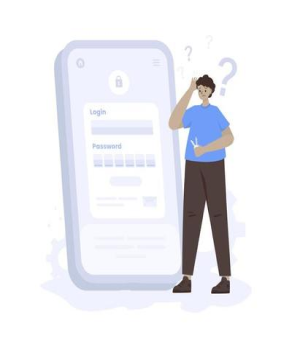
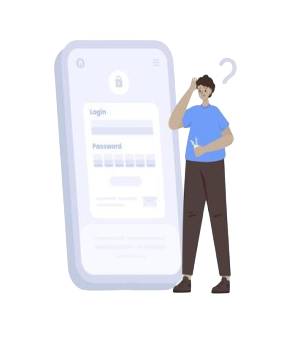
update form edit information, forgot passowd, login

diff --git a/backend/website/src/pages/EditInformation/components/FormEditInformation.jsx b/backend/website/src/pages/EditInformation/components/FormEditInformation.jsx
@@ -3,10 +3,12 @@ import { FontAwesomeIcon } from '@fortawesome/react-fontawesome';
 import { faCamera } from '@fortawesome/free-solid-svg-icons';
 
 const FormEditInformation = () => {
-    const [email, setEmail] = useState('current@example.com');
-    const [username, setUsername] = useState('current_username');
+    const [email, setEmail] = useState('');
+    const [username, setUsername] = useState('');
     const [phoneNumber, setPhoneNumber] = useState('');
     const [birthday, setBirthday] = useState('');
+    const [password, setPassowrd] = useState('');
+    const [repassword, setRepassword] = useState('');
     const [profileImage, setProfileImage] = useState('./src/assets/img/Forgotpassword/Figure → signin-image.jpg.png');
 
     const handleFileChange = (event) => {
@@ -31,13 +33,13 @@ const FormEditInformation = () => {
             <form onSubmit={handleSubmit} encType="multipart/form-data">
                 <div className="mb-6 flex justify-center">
                     <div className="relative">
-                        <img
+                        {/* <img
                             id="imagePreview"
                             src={profileImage}
                             alt="Current Profile"
                             className="w-32 h-32 rounded-full object-cover border-4 border-white shadow-lg"
-                        />
-                        <label
+                        /> */}
+                        {/* <label
                             htmlFor="profileImage"
                             className="absolute bottom-0 right-0 bg-blue-600 text-white p-2 rounded-full cursor-pointer"
                         >
@@ -50,12 +52,12 @@ const FormEditInformation = () => {
                                 className="hidden"
                                 onChange={handleFileChange}
                             />
-                        </label>
+                        </label> */}
                     </div>
                 </div>
 
                 <div className="mb-4">
-                    <label htmlFor="email" className="block text-sm font-medium text-gray-300 mb-2">Email</label>
+                    <label htmlFor="email" className="block text-sm font-nunito font-bold text-gray-300 mb-2">Email</label>
                     <input
                         type="email"
                         id="email"
@@ -104,23 +106,45 @@ const FormEditInformation = () => {
                         className="block w-full px-4 py-2 border border-gray-600 rounded-lg shadow-sm focus:outline-none focus:ring-indigo-500 focus:border-indigo-500 transition duration-300 bg-gray-700 text-white"
                     />
                 </div>
-                <div className="flex justify-end">
+                <div className="mb-4">
+                    <label htmlFor="phone" className="block text-sm font-medium text-gray-300 mb-2">Mật Khẩu</label>
+                    <input
+                        type="password"
+                        id="passowrd"
+                        name="password"
+                        value={password}
+                        onChange={(e) => setPassowrd(e.target.value)}
+                        className="block w-full px-4 py-2 border border-gray-600 rounded-lg shadow-sm focus:outline-none focus:ring-indigo-500 focus:border-indigo-500 transition duration-300 bg-gray-700 text-white"
+                        required
+                    />
+                </div>
+                <div className="mb-4">
+                    <label htmlFor="phone" className="block text-sm font-medium text-gray-300 mb-2">Nhập lại mật khẩu</label>
+                    <input
+                        type="password"
+                        id="repassword"
+                        name="repassword"
+                        value={repassword}
+                        onChange={(e) => setRepassword(e.target.value)}
+                        className="block w-full px-4 py-2 border border-gray-600 rounded-lg shadow-sm focus:outline-none focus:ring-indigo-500 focus:border-indigo-500 transition duration-300 bg-gray-700 text-white"
+                        required
+                    />
+                </div>
+                <div className="flex justify-end gap-4">
                     <button
                         type="submit"
-                        className="bg-indigo-600 text-white py-2 px-6 rounded-lg shadow-lg hover:bg-indigo-700 focus:outline-none focus:ring-2 focus:ring-indigo-500 focus:ring-offset-2 transition duration-300"
+                        className="bg-indigo-600 hover:bg-indigo-400 text-white py-2 px-6 rounded-lg shadow-lg focus:outline-none focus:ring-2 focus:ring-indigo-500 focus:ring-offset-2 transition duration-300"
                     >
                         Lưu thay đổi
                     </button>
-                </div>
-
-                <div className="flex justify-center mt-4">
                     <button
                         type="button"
-                        className="bg-red-600 text-white py-2 px-6 rounded-lg shadow-lg hover:bg-red-700 focus:outline-none focus:ring-2 focus:ring-red-500 focus:ring-offset-2 transition duration-300"
+                        className="bg-red-600 hover:bg-red-400 text-white py-2 px-6 rounded-lg shadow-lg focus:outline-none focus:ring-2 focus:ring-red-500 focus:ring-offset-2 transition duration-300"
                         onClick={() => alert('Đổi mật khẩu')}>
                         Đổi mật khẩu
                     </button>
                 </div>
+                
             </form>
         </div>
     );

diff --git a/backend/website/src/pages/Forgotpassword/components/FormForgotPassword.jsx b/backend/website/src/pages/Forgotpassword/components/FormForgotPassword.jsx
@@ -18,16 +18,16 @@ export const FormForgotPassword = () => {
             </div>
 
             {/* Phần nhập email */}
-            <div className="flex flex-col justify-center items-center w-full md:w-1/2 space-y-6 md:space-y-8">
+            <div className="flex flex-col justify-center items-center w-full md:w-1/2 space-y-6 md:space-y-8 border p-6 rounded-lg bg-slate-700">
                 {/* Tiêu đề */}
-                <h2 className="text-Vibrant-Purple-400 text-2xl md:text-4xl font-bold font-poppins mb-2 text-center">
-                    Forgot password?
+                <h2 className="text-white text-2xl md:text-4xl font-nunito font-bold font-poppins mb-2 text-center">
+                    Quên Mật Khẩu? 
                 </h2>
 
                 {/* Hình ảnh biểu tượng */}
                 <img
-                    className="w-[120px] h-[120px] md:w-[173px] md:h-[150px] mx-auto -mb-4 md:-mb-8"
-                    src="./src/assets/img/Forgotpassword/Forgot Password.png"
+                    className="w-[120px] h-[160px] md:w-[173px] md:h-[150px] mx-auto -mb-4 md:-mb-8"
+                    src="./src/assets/img/Forgotpassword/pngegg.png"
                     alt="Icon"
                 />
                 {/* Phần nhập email */}
@@ -62,9 +62,9 @@ export const FormForgotPassword = () => {
                 </div>
                 {/* Nút gửi email */}
                 <div className="w-full max-w-md">
-                    <button className="group relative min-h-[40px] rounded-xl w-full overflow-hidden border border-Dark-Blue-400 bg-white text-Dark-Blue-400 shadow transition-all hover:text-white hover:bg-Vibrant-Purple-600">
+                    <button className="group relative min-h-[40px] rounded-xl w-full overflow-hidden bg-[#00a9ff] shadow transition-all text-white font-nunito font-bold">
                         <span className="absolute inset-0 flex items-center justify-center z-10">
-                            Send Mail
+                            Nhận Mail 
                         </span>
                     </button>
                 </div>

diff --git a/backend/website/src/pages/EditInformation/index.jsx b/backend/website/src/pages/EditInformation/index.jsx
@@ -12,7 +12,7 @@ export default function EditInformation(props) {
         document.title = title ? `${title}` : "Không tìm thấy trang";
     }, [title]);
     return (
-        <main className="flex items-center justify-center bg-Dark-Blue-900">
+        <main className="flex items-center justify-center bg-blue-600">
             <div className="flex flex-col items-center w-full max-w-4xl p-6">
                 <h1 className="text-2xl font-semibold text-center">Chỉnh sửa thông tin cá nhân</h1>
                 <FormEditInformation />

diff --git a/backend/website/src/pages/Login/components/FormLogin.jsx b/backend/website/src/pages/Login/components/FormLogin.jsx
@@ -76,7 +76,7 @@ const FormLogin = () => {
                 {/* button */}
                 <div className="text-center md:text-left flex flex-col items-center">
                     <button type="submit" className="mt-4 bg-blue-600 hover:bg-wine-red-800 px-8 py-2 text-white rounded text-xs tracking-wider">
-                        Login
+                        Đăng Nhập
                     </button>
                 </div>
                 {/* navigate register */}
